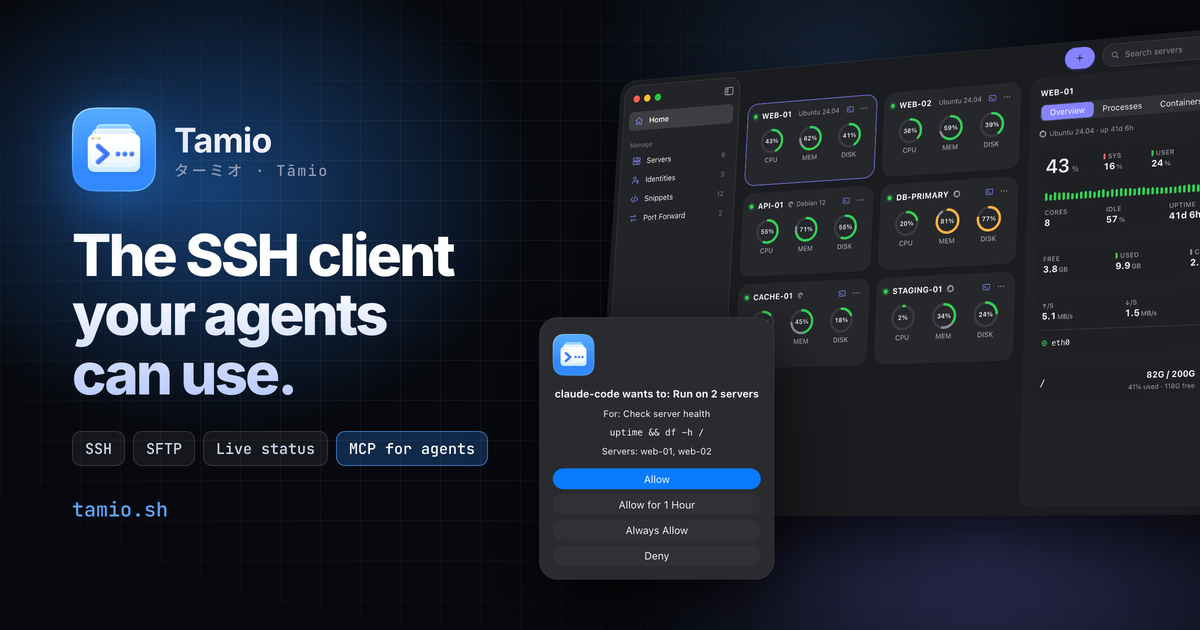
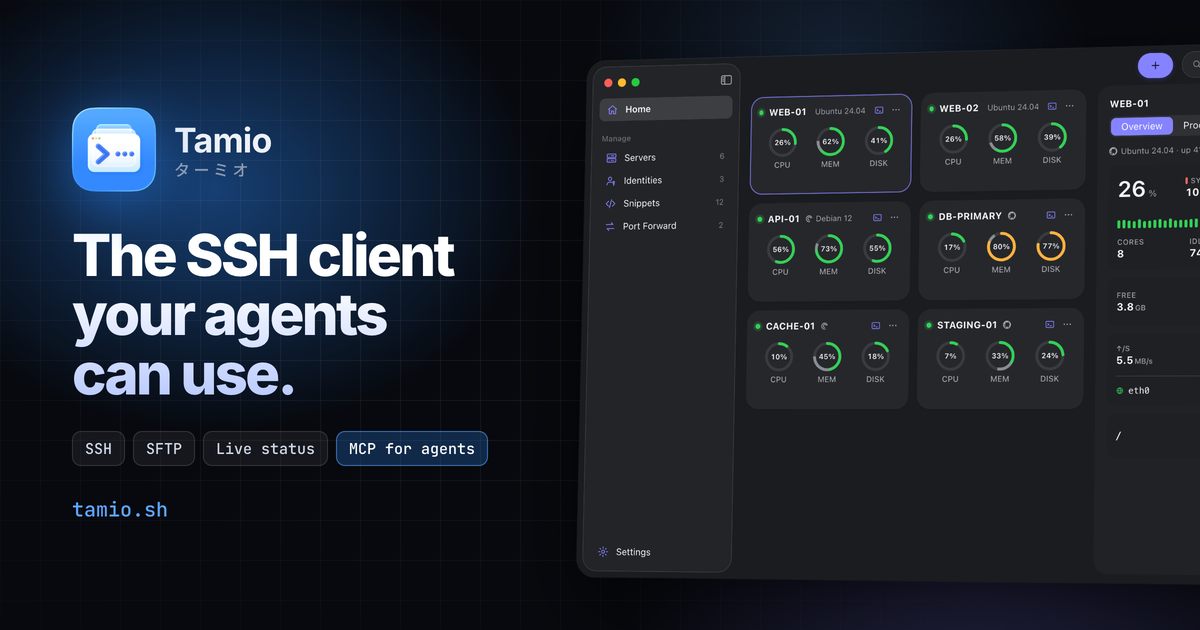
fix(website): simpler link preview card
The name once, with its kana, and the window alone on the right: no
approval prompt over it.

diff --git a/website/og/card.html b/website/og/card.html
@@ -25,8 +25,7 @@
     .brand { display: flex; align-items: center; gap: 18px; }
     .brand img { width: 84px; height: 84px; filter: drop-shadow(0 12px 30px rgba(43, 137, 253, 0.55)); }
     .brand b { display: block; font-size: 34px; font-weight: 700; letter-spacing: -0.02em; }
-    .brand span { font: 500 15px/1 'JetBrains Mono', monospace; letter-spacing: 0.1em; color: #8f9ab0; }
-    .brand span i { font-style: normal; font-family: 'Noto Sans JP', sans-serif; letter-spacing: 0.18em; }
+    .brand span { font: 500 16px/1 'Noto Sans JP', sans-serif; letter-spacing: 0.22em; color: #8f9ab0; }
     h1 { margin: 34px 0 0; font-size: 58px; line-height: 1.02; font-weight: 800; letter-spacing: -0.045em;
       background: linear-gradient(180deg, #ffffff 30%, #b7c9ff); -webkit-background-clip: text; color: transparent; }
     .chips { display: flex; flex-wrap: wrap; gap: 8px; margin-top: 28px; }
@@ -35,26 +34,22 @@
     .chips span.hot { color: #fff; background: rgba(43, 137, 253, 0.25); border-color: rgba(94, 166, 255, 0.55); }
     .url { margin-top: 30px; font: 500 20px 'JetBrains Mono', monospace; color: #5ea6ff; }
 
-    .stage { position: absolute; left: 600px; top: 70px; perspective: 1600px; }
-    .tilt { transform: rotateY(-16deg) rotateX(7deg) rotateZ(-1deg); transform-style: preserve-3d; transform-origin: left center; }
-    .win { width: 1180px; height: 720px; transform: scale(0.62); transform-origin: top left; }
+    /* The window fills the right side, a little turned, its right edge off the card. */
+    .stage { position: absolute; left: 580px; top: 58px; perspective: 2200px; }
+    .tilt { transform: rotateY(-9deg) rotateX(3deg); transform-style: preserve-3d; transform-origin: left center; }
+    .win { width: 1180px; height: 720px; transform: scale(0.72); transform-origin: top left; }
     .win .tw { box-shadow: 0 50px 120px -20px rgba(0, 0, 0, 0.85), 0 0 0 1px rgba(255, 255, 255, 0.10); }
-    .prompt { position: absolute; left: 540px; top: 318px; transform: scale(0.8); transform-origin: top left;
-      filter: drop-shadow(0 30px 50px rgba(0, 0, 0, 0.6)); }
-    .prompt .tw-alert-stage { all: unset; display: block; }
-    .prompt .tw-alert-result { display: none; }
   </style>
 </head>
 <body>
   <div class="bg"></div><div class="grid"></div>
   <section class="left">
-    <div class="brand"><img src="/icon.png" alt=""><div><b>Tamio</b><span><i>ターミオ</i> · Tāmio</span></div></div>
+    <div class="brand"><img src="/icon.png" alt=""><div><b>Tamio</b><span>ターミオ</span></div></div>
     <h1>The SSH client<br>your agents<br>can use.</h1>
     <div class="chips"><span>SSH</span><span>SFTP</span><span>Live status</span><span class="hot">MCP for agents</span></div>
     <div class="url">tamio.sh</div>
   </section>
   <div class="stage"><div class="tilt"><div class="win"><div data-demo="window"><div class="demo-scale"></div></div></div></div></div>
-  <div class="prompt"><div class="tw-alert-stage" data-demo="alert"></div></div>
   <script src="/demo.js"></script>
 </body>
 </html>
